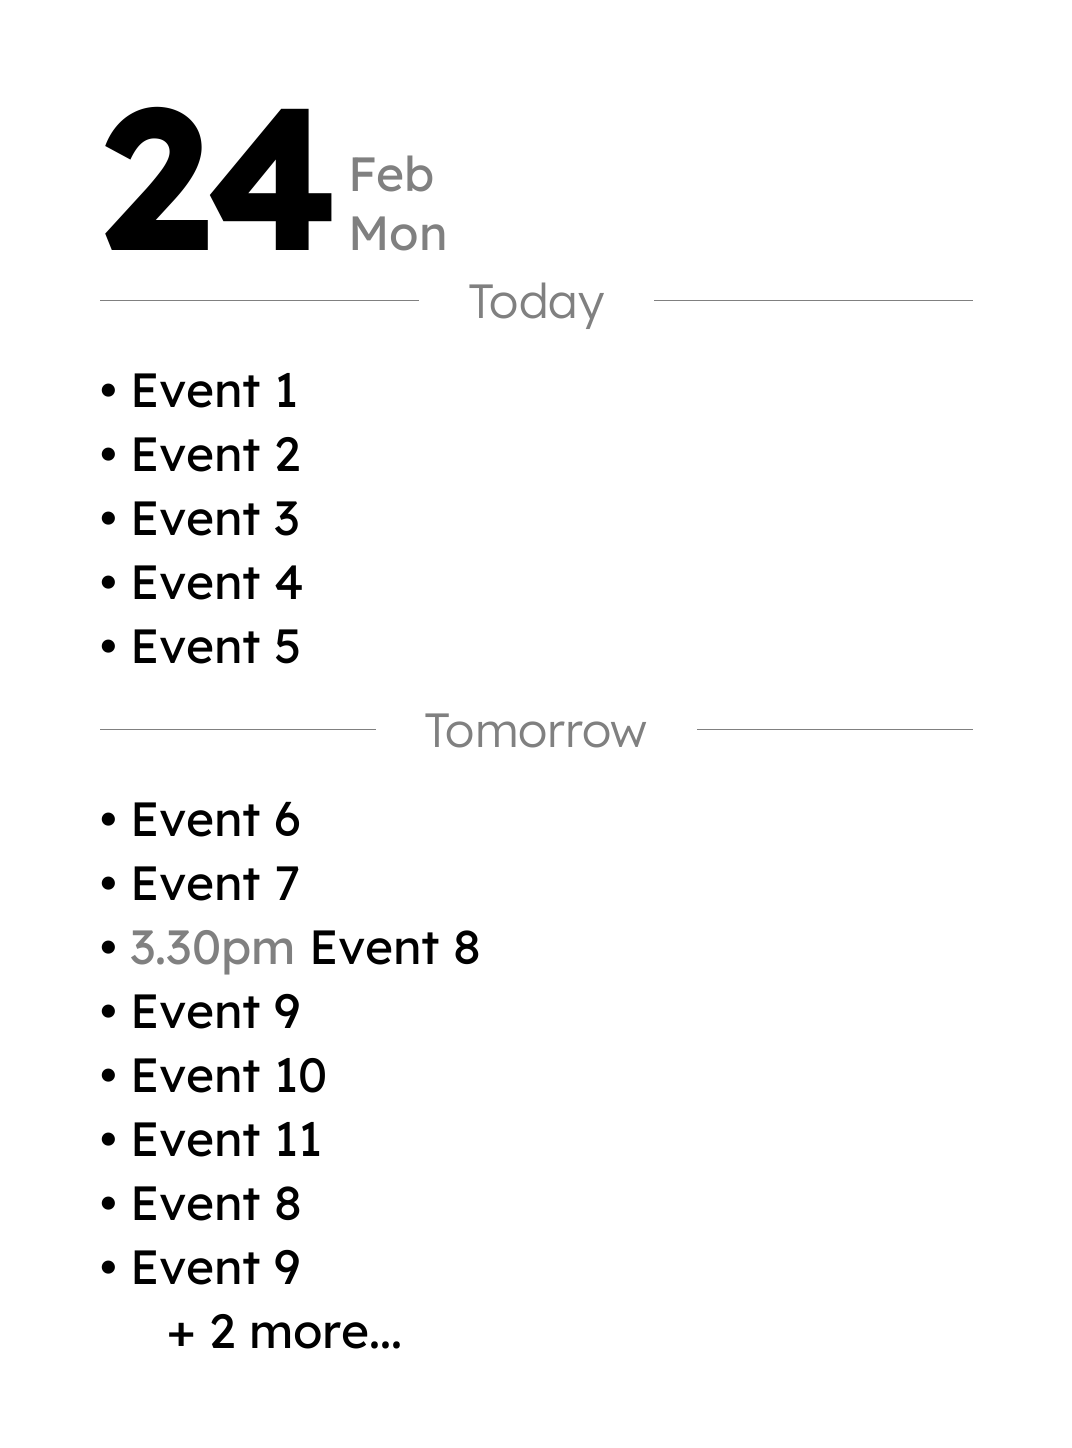
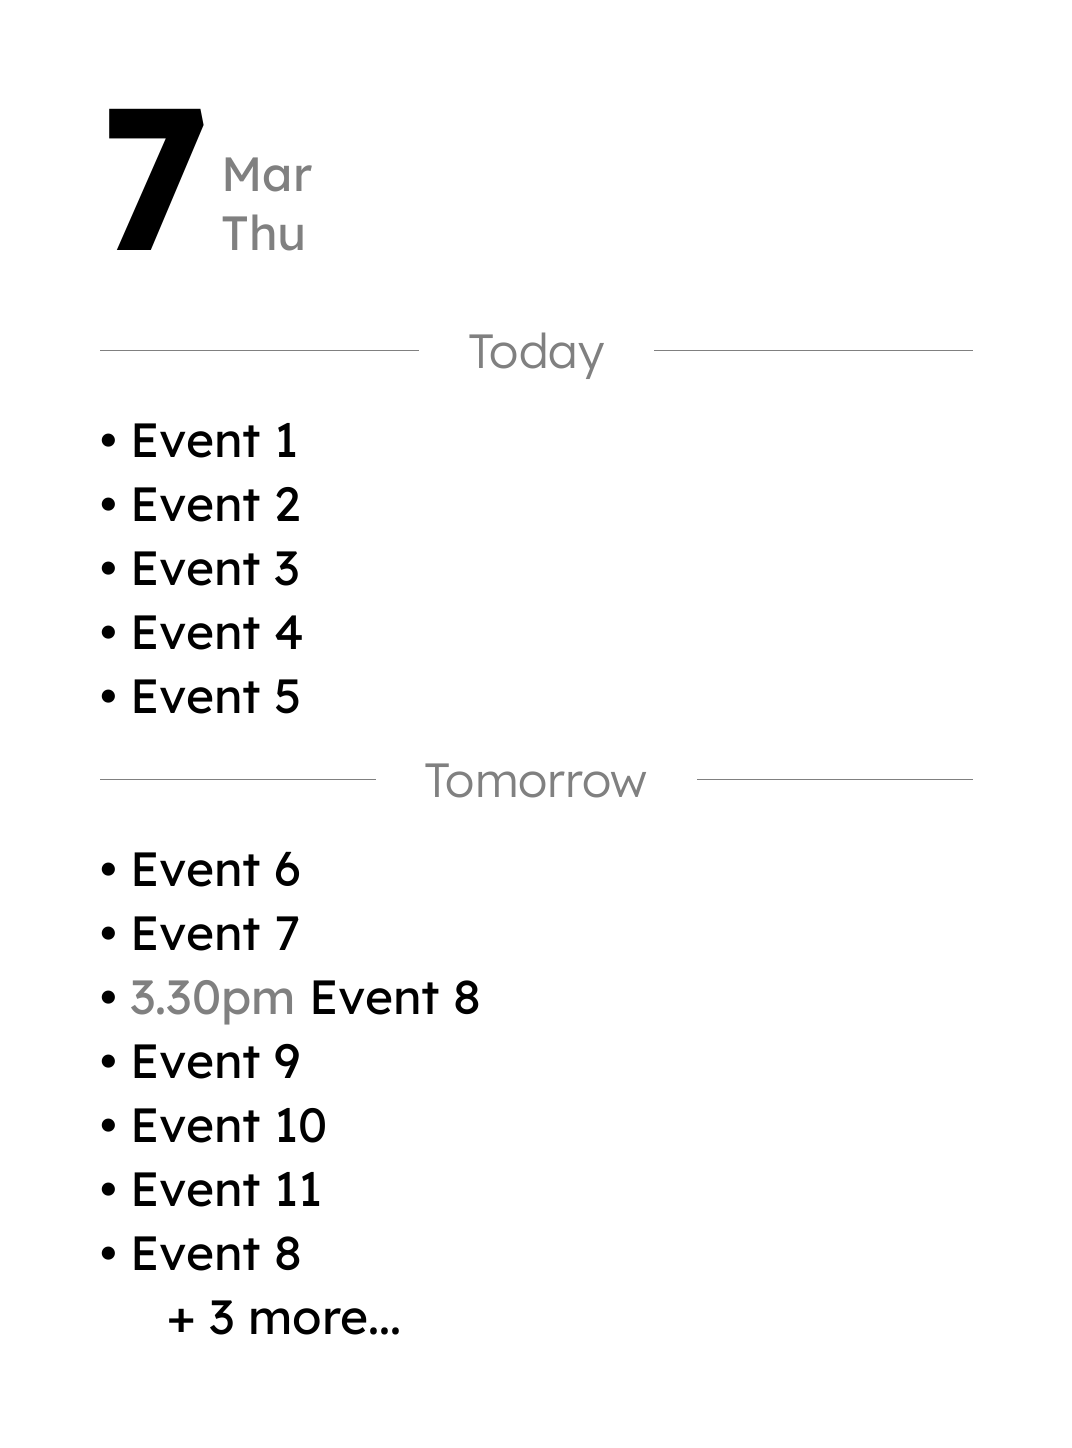
Made Renderer a class

diff --git a/render/render_svg.py b/render/render_svg.py
@@ -9,99 +9,122 @@ TODO:
 - decide what to do with weather. next N hours? just icon/temp? 
 """
 
-
-# Constants
-IMAGE_WIDTH, IMAGE_HEIGHT = 1072, 1448
-TOP_ROW_Y = 250  # y-coordinate for the baseline of the top row
-SPACING_BETWEEN_SECTIONS = 50  # spacing between sections
-MARGIN_X = 100
-MARGIN_Y = 200
-BACKGROUND_COLOR = "white"
-
 class Renderer:
 
-    def __init__(self,
-                 image_width, image_height,
-                 margin_x, margin_y,
-                 top_row_y, spacing_between_sections,
-                 bg_colour="white",
-                 font_map=None):
+    def __init__(self, ff: FontFactory,
+                 image_width: int, image_height: int, margin_x: int, margin_y: int,
+                 top_row_y: int, spacing_between_sections: int,
+                 bg_colour = "white",
+                 ):
             
             self.logger = logging.getLogger('maginkdash')
+            
             self.image = Image.new("RGB", (image_width, image_height), bg_colour)
-            self.draw = ImageDraw.Draw(image)
+            self.draw = ImageDraw.Draw(self.image)
+            self.ff = ff
 
-# Create the SVG image
-image = Image.new("RGB", (IMAGE_WIDTH, IMAGE_HEIGHT), BACKGROUND_COLOR)
-draw = ImageDraw.Draw(image)
+            self.image_height = image_height
+            self.image_width = image_width
+            self.margin_x = margin_x
+            self.margin_y = margin_y
+            self.top_row_y = top_row_y
+            self.spacing_between_sections = spacing_between_sections
     
-def render_events(section_title, bullet_points, y):
-    """Renders a section with a title and bullet points starting at the given y-coordinate."""
+    def render_events(self, section_title, bullet_points, y):
+        """Renders a section with a title and bullet points starting at the given y-coordinate."""
 
-    event_title = ff.get("light")
-    event_reg = ff.get("regular")
+        event_title = self.ff.get("light")
+        event_reg = self.ff.get("regular")
 
-    # Title
-    title_width = event_title.width(section_title)
-    title_pos_x = IMAGE_WIDTH//2
-    draw.text((title_pos_x, y), section_title, font=event_title.font(), fill="gray", anchor="mm")
+        # Title text
+        title_width = event_title.width(section_title)
+        title_pos_x = self.image_width//2
+        self.draw.text((title_pos_x, y), section_title, font=event_title.font(), fill="gray", anchor="mm")
 
-    line_x_l = title_pos_x - (title_width//2 + 50)
-    line_x_r = title_pos_x + (title_width//2 + 50)
+        # Lines either side of title
+        left_line_x_start = self.margin_x
+        left_line_x_end = title_pos_x - (title_width//2 + 50)
+        right_line_x_start = title_pos_x + (title_width//2 + 50)
+        right_line_x_end = self.image_width - self.margin_x
 
-    draw.line([MARGIN_X,y,line_x_l,y], fill="gray", width=1)
-    draw.line([line_x_r,y,IMAGE_WIDTH-MARGIN_X,y], fill="gray", width=1)
-    
-    y += event_title.height()  # Add spacing after the title
-
-    # Bullets
-    f = event_reg.font()
-    bullet_height = event_reg.height()
-    for index, bullet in enumerate(bullet_points):
-        if y > IMAGE_HEIGHT - MARGIN_Y:
-            draw.text((MARGIN_X, y), f"     + {len(bullet_points)-index} more...", font=f, fill="black")
-            break
+        self.draw.line([left_line_x_start, y,
+                        left_line_x_end, y], 
+                        fill="gray", width=1)
+        self.draw.line([right_line_x_start, y, 
+                        right_line_x_end, y], 
+                        fill="gray", width=1)
         
-        if type(bullet) == str:
-            draw.text((MARGIN_X, y), "• " + bullet, font=f, fill="black")
-        elif type(bullet) == tuple:
-            event_time = bullet[0] + " "
-            event_text = bullet[1]
+        y += event_title.height()  # Add spacing after the title
 
-            width_time = event_reg.width(event_time)
-            width_text = event_reg.width(event_text)
-            width_bp = event_reg.width("• ") # bp = bulletpoint symbol
+        # Bullets
+        f = event_reg.font()
+        bullet_height = event_reg.height()
+        for index, bullet in enumerate(bullet_points):
+            if y > self.image_height - self.margin_y:
+                self.draw.text((self.margin_x, y), f"     + {len(bullet_points)-index} more...", font=f, fill="black")
+                break
+            
+            if type(bullet) == str:
+                self.draw.text((self.margin_x, y), "• " + bullet, font=f, fill="black")
+            elif type(bullet) == tuple:
+                event_time = bullet[0] + " "
+                event_text = bullet[1]
 
-            x_bp = MARGIN_X
-            x_time = x_bp + width_bp 
-            x_text = x_time + width_time
+                width_time = event_reg.width(event_time)
+                width_text = event_reg.width(event_text)
+                width_bp = event_reg.width("• ") # bp = bulletpoint symbol
 
-            draw.text((x_bp, y), "• ", font=f, fill="black")
-            draw.text((x_time, y), event_time, font=f, fill="gray")
-            draw.text((x_text, y), event_text, font=f, fill="black")
-                
-        y += bullet_height + 5  # Add spacing between bullet points
+                x_bp = self.margin_x
+                x_time = x_bp + width_bp 
+                x_text = x_time + width_time
 
-    return y
+                self.draw.text((x_bp, y), "• ", font=f, fill="black")
+                self.draw.text((x_time, y), event_time, font=f, fill="gray")
+                self.draw.text((x_text, y), event_text, font=f, fill="black")
+                    
+            y += bullet_height + 5  # Add spacing between bullet points
 
-def render_date(day, day_of_week, month):
+        return y
 
-    date_num = ff.get("bold", 200)
-    date_rest = ff.get("regular")
-    
-    draw.text((MARGIN_X, TOP_ROW_Y), day, font=date_num.font(), fill="black", anchor="ls")
-    day_width = date_num.width(day)
+    def render_date(self, day, day_of_week, month):
 
-    draw.text((MARGIN_X + day_width + 10, TOP_ROW_Y), day_of_week, font=date_rest.font(), fill="gray", anchor="ls")
-    draw.text((MARGIN_X + day_width + 10, TOP_ROW_Y - date_rest.height()), month, font=date_rest.font(), fill="gray", anchor="ls")
+        date_num = self.ff.get("bold", 200)
+        date_rest = self.ff.get("regular")
+        
+        self.draw.text((self.margin_x, self.top_row_y), day, font=date_num.font(), fill="black", anchor="ls")
+        day_width = date_num.width(day)
 
-def render_weather(text, icon):
+        self.draw.text((self.margin_x + day_width + 10, self.top_row_y), day_of_week, font=date_rest.font(), fill="gray", anchor="ls")
+        self.draw.text((self.margin_x + day_width + 10, self.top_row_y - date_rest.height()), month, font=date_rest.font(), fill="gray", anchor="ls")
 
-    weather_icon = ff.get("weather", 150)
-    weather_text = ff.get("regular")
+    def render_weather(self, text, icon):
 
-    draw.text((IMAGE_WIDTH-MARGIN_X-weather_text.width(text), TOP_ROW_Y), text, font=weather_text.font(), fill="gray", anchor="ls")
-    draw.text((IMAGE_WIDTH-MARGIN_X-weather_icon.width(icon), TOP_ROW_Y - weather_text.height()), icon, font=weather_icon.font(), fill="black", anchor="ls")
+        weather_icon = self.ff.get("weather", 150)
+        weather_text = self.ff.get("regular")
+
+        self.draw.text((self.image_width - self.margin_x - weather_text.width(text), self.top_row_y), text, font=weather_text.font(), fill="gray", anchor="ls")
+        self.draw.text((self.image_width - self.margin_x - weather_icon.width(icon), self.top_row_y - weather_text.height()), icon, font=weather_icon.font(), fill="black", anchor="ls")
+
+    def render_all(self, todays_date, weather, events_today, events_tomorrow):
+        
+        # Render top row
+        day = todays_date.strftime("%-d")
+        day_of_week = todays_date.strftime("%a")
+        month = todays_date.strftime("%b")
+        self.render_date(day, day_of_week, month)
+        # render_weather(text="Broken clouds | 11º", icon="\uf00d")
+        
+        # Render the "Today" section
+        y = self.top_row_y + 2*self.spacing_between_sections # TODO: return this from render_top_row
+        y = self.render_events("Today", events_today, y)
+
+        # Render the "Tomorrow" section
+        y += self.spacing_between_sections
+        self.render_events("Tomorrow", events_tomorrow, y)
+
+        # Save the image
+        self.image.save("output.png")
+
 
 font_map = {
         "light": "Lexend-Light.ttf", 
@@ -111,21 +134,15 @@ font_map = {
         "weather": "weathericons-regular-webfont.ttf"
 }
 
-ff = FontFactory("/Users/mike.holmes/projects/home-display/render/font",font_map)
+f = FontFactory("/Users/mike.holmes/projects/home-display/render/font",font_map)
+r = Renderer(ff=f, image_width=1072, image_height=1448, margin_x=100, margin_y=200, top_row_y=250, spacing_between_sections=50)
 
-# Render top row
-render_date(day="24", day_of_week="Mon", month="Feb")
-# render_weather(text="Broken clouds | 11º", icon="\uf00d")
+e_today = ["Event 1", "Event 2", "Event 3", "Event 4", "Event 5"]
+e_tomorrow = ["Event 6", "Event 7", ("3.30pm", "Event 8"), "Event 9", "Event 10", "Event 11", "Event 8", "Event 9", "Event 10", "Event 11"]
 
-# Render the "Today" section
-events_today = ["Event 1", "Event 2", "Event 3", "Event 4", "Event 5"]
-y = TOP_ROW_Y + SPACING_BETWEEN_SECTIONS
-y = render_events("Today", events_today, y)
+from datetime import datetime as dt
 
-# Render the "Tomorrow" section
-events_tomorrow = ["Event 6", "Event 7", ("3.30pm", "Event 8"), "Event 9", "Event 10", "Event 11", "Event 8", "Event 9", "Event 10", "Event 11"]
-y += SPACING_BETWEEN_SECTIONS
-render_events("Tomorrow", events_tomorrow, y)
-
-# Save the image
-image.save("output.png")
+r.render_all(
+    todays_date=dt.now().date(), 
+    weather=None,
+    events_today=e_today, events_tomorrow=e_tomorrow)
